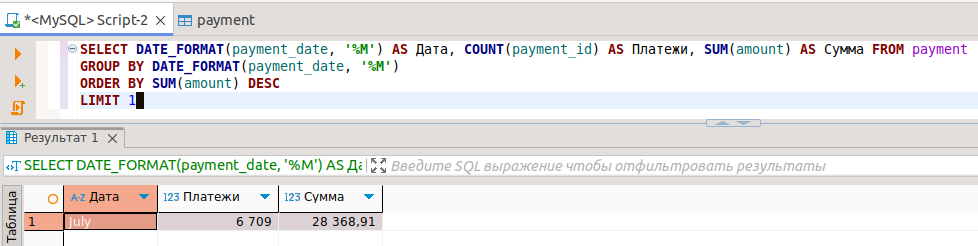
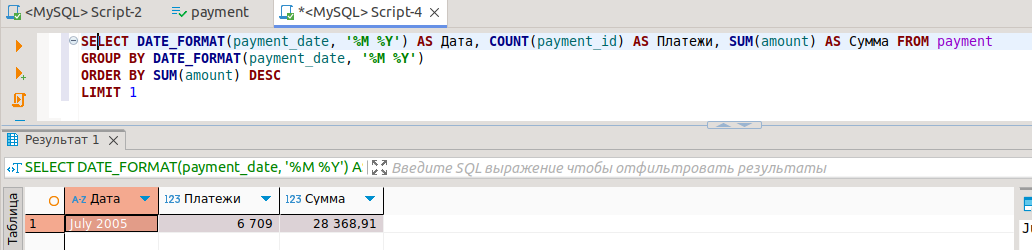
2

diff --git a/README.md b/README.md
@@ -29,8 +29,8 @@ WHERE length > (SELECT AVG(`length` ) FROM film)
 
 Получите информацию, за какой месяц была получена наибольшая сумма платежей, и добавьте информацию по количеству аренд за этот месяц.
 ```
-SELECT DATE_FORMAT(payment_date, '%M') AS Дата, COUNT(payment_id) AS Платежи, SUM(amount) AS Сумма FROM payment
-GROUP BY DATE_FORMAT(payment_date, '%M')
+SELECT DATE_FORMAT(payment_date, '%M %Y') AS Дата, COUNT(payment_id) AS Платежи, SUM(amount) AS Сумма FROM payment
+GROUP BY DATE_FORMAT(payment_date, '%M %Y')
 ORDER BY SUM(amount) DESC
 LIMIT 1
 ```
